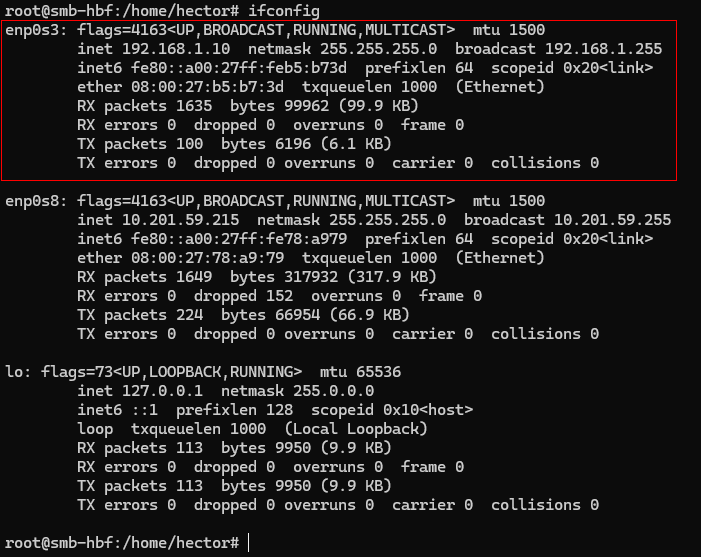
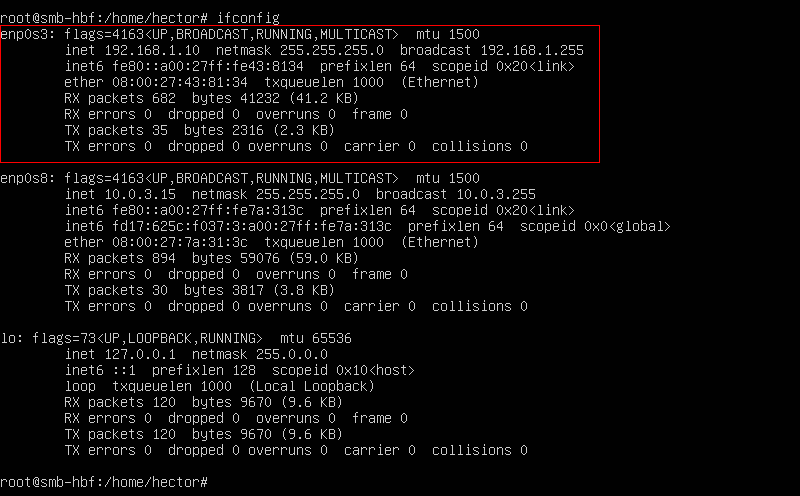
pr0701

Changed region(s): [[0.0, 0.0, 0.9586, 0.998]]

diff --git a/ut07/pr0701/pr0701.md b/ut07/pr0701/pr0701.md
@@ -16,7 +16,7 @@ Las carpetas serán accesibles por los siguientes usuarios según los siguientes
 - Los usuarios `tall01`, `tall02` y `tall03` usan **Linux**.
 
 ## 📌 Configuración del entorno
-Para la práctica prepararemos 3 máquinas virtuales con la siguiente configuración:
+Para la práctica prepararemos 3 máquinas virtuales, un **Ubuntu Server 20.04**, un **Ubuntu Desktop 20.04** y un **Windows 10** con la siguiente configuración:
 
 | Host                 | IP           | Máscara de subred | Puerta de enlace | Servidor DNS     |
 | -------------------- | ------------ | ----------------- | ---------------- | ---------------- |
@@ -24,11 +24,9 @@ Para la práctica prepararemos 3 máquinas virtuales con la siguiente configurac
 | `ClienteUbuntu-HBF`  | 192.168.1.20 | 255.255.255.0 /24 | 192.168.1.1      | 8.8.8.8, 8.8.4.4 |
 | `ClienteWindows-HBF` | 192.168.1.30 | 255.255.255.0 /24 | 192.168.1.1      | 8.8.8.8, 8.8.4.4 |
 
-Ahora pondremos las IPs estáticas en cada máquina virtual, en mi caso, he puesto en cada una de ellas dos adaptadores de red, uno en **red interna** y el otro en **puente**. Así que configuramos la **red interna**.
+Ahora pondremos las IPs estáticas en cada máquina virtual, en mi caso, he puesto en cada una de ellas dos adaptadores de red, uno en **red interna** y el otro en **NAT**. Así que configuramos la **red interna**.
 
 ### smb-hbf
-> 💬 Para esta máquina, me he conectado por **SSH** para poder copiar y pegar comandos en caso necesario.
-
 Como en este caso es un Ubuntu Server, no tendremos entorno gráfico. Por lo que tendremos que editar el fichero de configuración de red con el siguiente comando:
 ```bash
 sudo nano /etc/netplan/00-installer-config.yaml
@@ -64,40 +62,234 @@ Por último, desactivamos el **Firewall** desde el **Panel de control**, yendo h
 
 ![Firewall](Imagenes/Firewall.png)
 
-## 📌 Instalación y configuración de Samba
+## 📌 Instalación y configuración de `Samba`
+Vamos a nuestro servidor y pondremos estos comandos:
+```bash
+sudo apt update
+sudo apt install samba smbclient
+```
 
+Cuando lo tengamos instalado, pondremos este comando para verificar la versión que tenemos:
+```bash
+smbd --version
+```
 
+En mi caso tengo la versión `Version 4.15.13-Ubuntu`.
 
+### Creación de los grupos y usuarios
+Para crear los grupos, lo hacemos con el comando `groupadd`.
+```bash
+sudo groupadd gerencia
+sudo groupadd administracion
+sudo groupadd taller
+```
 
+Para los usuarios, los creamos con el comando `useradd`. Pondremos los modificadores `-m` y `-G`.
+```bash
+sudo useradd -m -G gerencia ger01
+sudo useradd -m -G administracion adm01
+sudo useradd -m -G administracion adm02
+sudo useradd -m -G taller tall01
+sudo useradd -m -G taller tall02
+sudo useradd -m -G taller tall03
+```
 
+Ahora les pondremos la contraseña a cada usuario que hemos creado. Usaremos el comando `smbpasswd`, nos pedirá que repitamos la contraseña en cada uno de los casos. Le pondremos el modificador `-a`.
+```bash
+sudo smbpasswd -a ger01
+sudo smbpasswd -a adm01
+sudo smbpasswd -a adm02
+sudo smbpasswd -a tall01
+sudo smbpasswd -a tall02
+sudo smbpasswd -a tall03
+```
 
+Para hacer la verificación entre los usuarios de **Linux** y **Samba**, pondremos este comando:
+```bash
+sudo pdbedit -L
+```
 
+![Verificar usuarios](Imagenes/verificarUsuarios.png)
 
+### Creación de las carpetas compartidas
+Creamos las carpetas compartidas para los diferentes usuarios en un directorio que se llama `/samba`, de froma que sea fácil de buscar. Creamos uno por cada usuario usando el comando `mkdir`.
+```bash
+sudo mkdir /samba
+sudo mkdir /samba/Gerencia
+sudo mkdir /samba/Administracion
+sudo mkdir /samba/Taller
+sudo mkdir /samba/Publica
+```
 
+### Permisos y propietarios
+Vamos a gestionar los permisos de cada una de las carpetas que hemos creado, dándoles permiso al grupo. Tendremos que hacer uso del comando `chmod` y `chown`.
 
+- Carpeta Gerencia
 
+```bash
+sudo chown root:gerencia /samba/Gerencia
+sudo chmod 2775 /samba/Gerencia
+```
 
+- Carpeta Administracion
 
+```bash
+sudo chown root:administracion /samba/Administracion
+sudo chmod 2775 /samba/Administracion
+```
 
+- Carpeta Taller
 
+```bash
+sudo chown root:taller /samba/Taller
+sudo chmod 2775 /samba/Taller
+```
 
+- Carpeta Publica
 
+```bash
+sudo chown root:root /samba/Publica
+sudo chmod 755 /samba/Publica
+```
 
+### Configuración del fichero `smb.conf`
+Antes de modificar el fichero, haremos una copia de seguridad del mismo. Usamos el comando `cp`.
+```bash
+sudo cp /etc/samba/smb.conf /etc/samba/smb.conf.bak
+```
 
+Cuando ya lo tengamos copiado, modificamos el archivo con `sudo nano /etc/samba/smb.conf` y pondremos lo siguiente:
+```bash
+[Publica]
+comment = Carpeta Publica
+path = /samba/Publica
+browsable = yes
+guest ok = yes
+read only = yes
+write list = ger01
+create mask = 0644
+directory mask = 0755
 
+[Gerencia]
+comment = Carpeta Gerencia
+path = /samba/Gerencia
+browsable = yes
+valid users = @gerencia
+read only = no
 
+[Administracion]
+comment = Carpeta Administracion
+path = /samba/Administracion
+browsable = yes
+valid users = @administracion
+read only = no
 
+[Taller]
+comment = Carpeta Taller
+path = /samba/Taller
+browsable = yes
+valid users = @taller adm01 adm02
+read only = no
+write list = @taller
+```
 
+Dentro de `[global]`, pondremos esto en cualquier sitio:
 
+![global](Imagenes/global.png)
 
+### Reinicio del servicio
+Reiniciamos el servicio poniendo estos dos comandos:
+```bash
+sudo systemctl restart smbd
+sudo systemctl status smbd
+```
 
+![status](Imagenes/status.png)
 
+## 📌 Acceso desde Windows
+Entramos en Configuración con Ctrl+I, vamos a **Cuentas → Otros usuarios** y creamos a los usuarios `ger01`, `adm01` y `adm02`.
 
+![usuarios](Imagenes/usuariosW.png)
 
+### Comprobación de `Gerencia`
+Iniciamos sesión con `ger01`. Abrimos el explorador de archivos y escribimos `\\192.168.1.10`. Con esto entraríamos a las carpetas de **Samba**, clicamos en Gerencia y creamos un archivo de texto. Si nos permite hacerlo, está bien configurado.
 
+![Gerencia](Imagenes/gerencia.png)
 
+### Comprobación de `Administracion`
+Iniciamos sesión con `adm01`. Haciendo lo mismo entramos ahora en Administracion y creamos un archivo de texto. Si podemos, está bien configurado.
 
+![Administracion](Imagenes/administracion.png)
 
+Si intentamos entrar ahora en **Taller**, veremos que no podemos modificar, solo ver.
+
+![Administracion1](Imagenes/administracion1.png)
+
+Si intentamos entrar con un usuario a una carpeta sin permisos, nos saldrá el siguiente aviso:
+
+![Aviso](Imagenes/aviso.png)
+
+> 💬 He intentado entrar con el usuario `adm01` hacia **Gerencia**.
+
+### Comprobación de `Publica`
+Si volvemos hacia `\\192.168.1.10` e intentamos entrar en **Publica**, veremos que nos dará error.
+
+![Carpetas](Imagenes/carpetas.png)
+
+![Error](Imagenes/error.png)
+
+## 📌 Acceso desde Linux
+Creamos a los usuarios de Taller:
+```bash
+sudo adduser tall01
+sudo adduser tall02
+sudo adduser tall03
+```
+
+Instalamos lo siguiente:
+```bash
+sudo apt install smbclient
+sudo apt install cifs-utils
+```
+
+### Comprobación de `Taller`
+Comprobamos el acceso con el siguiente comando:
+```bash
+smbclient //192.168.1.10/Taller -U tall01
+```
+
+![Taller](Imagenes/taller.png)
+
+Saldremos de ahí con Ctrl+C y montamos la carpeta compartida con lo siguiente:
+```bash
+sudo mkdir -p /mnt/Taller
+sudo mount -t cifs //192.168.1.10/Taller /mnt/Taller -o user=tall01
+```
+
+![Carpeta compartida](Imagenes/carpetaCompartida.png)
+
+Probamos la lectura y escritura:
+```bash
+cd /mnt/Taller
+touch prueba.txt
+```
+
+![Prueba Taller](Imagenes/archivoTaller.png)
+
+### Comprobación de `Publica`
+Creamos la carpeta y la montamos:
+```bash
+sudo mkdir /mnt/Publica
+sudo mount -t cifs //192.168.1.10/Publica /mnt/Publica -o guest,uid=tall01
+```
+
+Comprobamos que podremos leer pero no escribir.
+```bash
+ls /mnt/Publica/
+touch /mnt/Publica/prueba.txt
+```
+
+![Prueba Publica](Imagenes/pruebaPublicaL.png)
 
 ---
 ### [⬅ Volver a UT07](../index.md)
